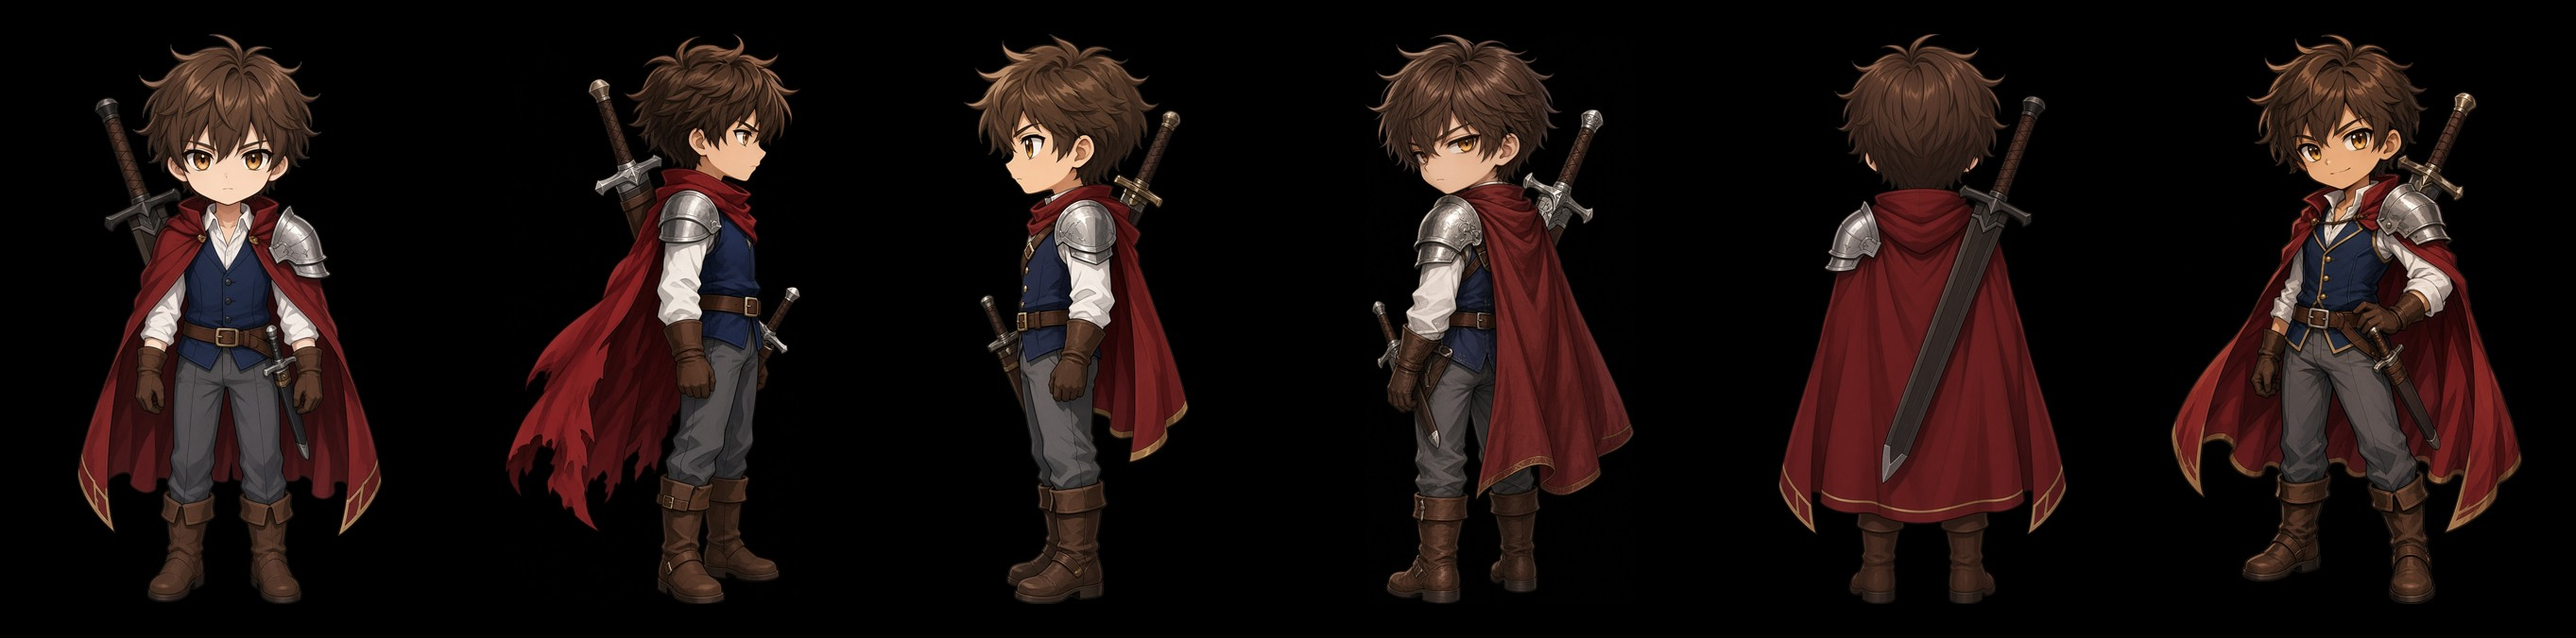
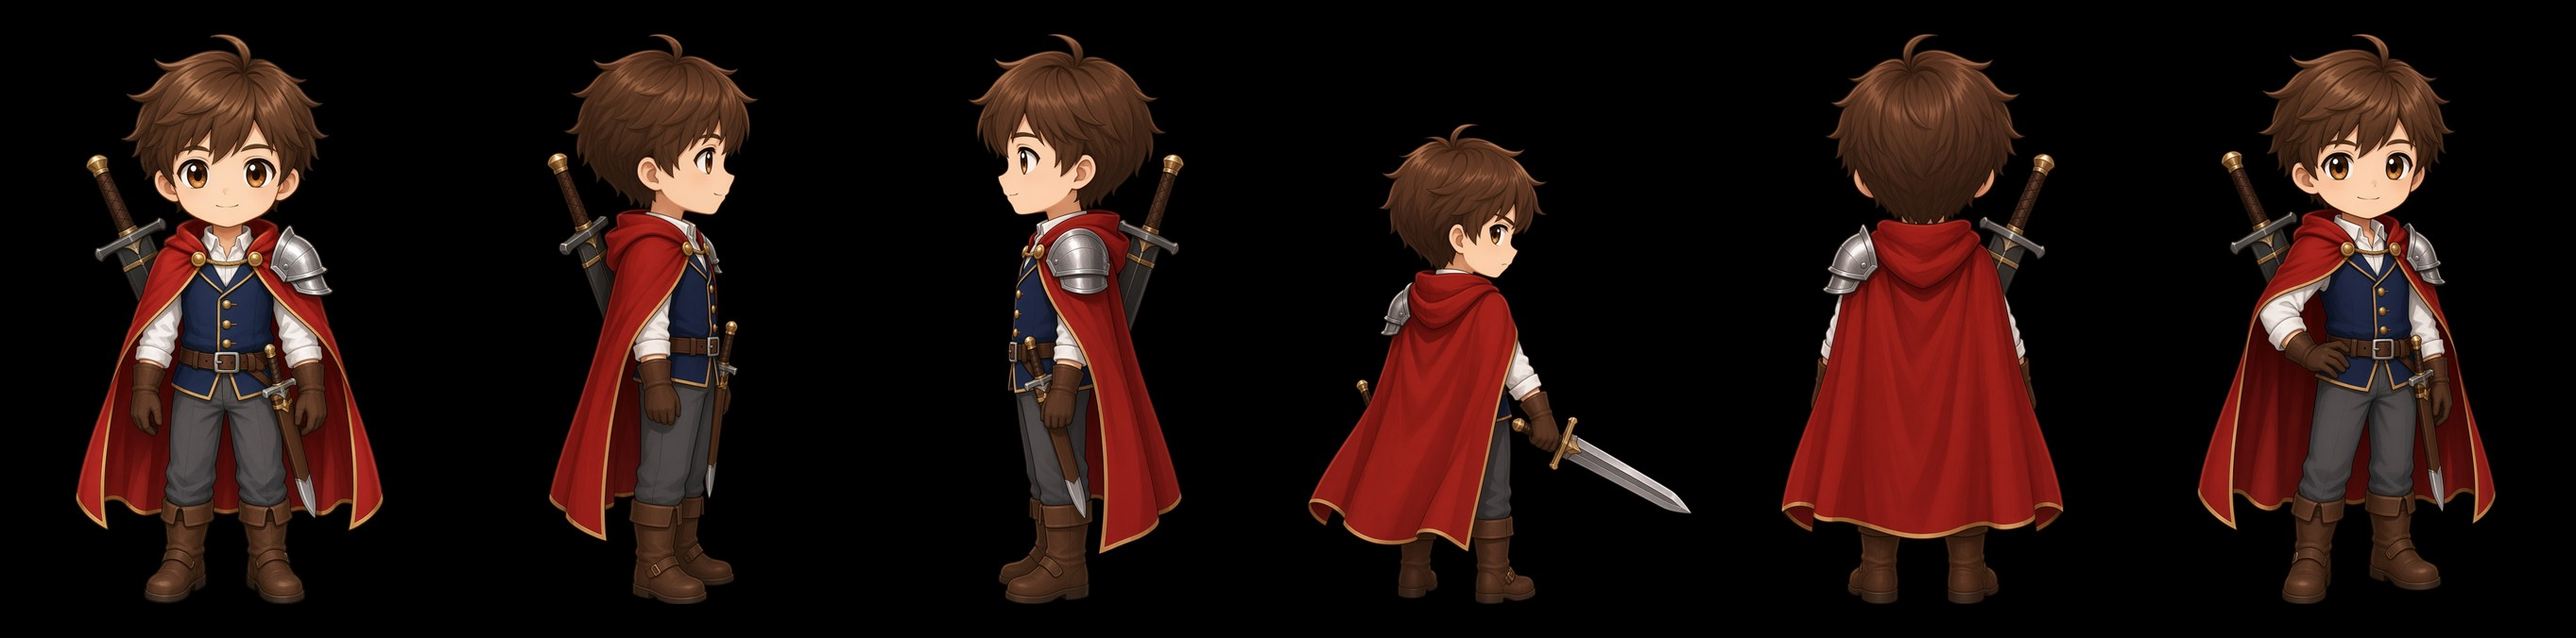
Match the warrior's face and cape, and draw his sword in battle.

diff --git a/index.html b/index.html
@@ -160,7 +160,6 @@
       height: 100%;
       object-fit: contain;
       object-position: right bottom;
-      transform: scaleX(-1);
       filter: drop-shadow(0 10px 8px rgba(0, 0, 0, 0.5));
     }
     .hero-vitals {
@@ -2862,11 +2861,11 @@
         <div class="cast-screen">
           <button type="button" class="cast-back" data-action="title">もどる</button>
           <div class="cast-row">
-            <button type="button" class="cast-mini" data-action="cast-stay" aria-label="${CHARACTER_NAME}"><span class="cast-front"><img class="cast-portrait" src="job-warrior.png?v=3" alt=""></span></button>
+            <button type="button" class="cast-mini" data-action="cast-stay" aria-label="${CHARACTER_NAME}"><span class="cast-front"><img class="cast-portrait" src="job-warrior.png?v=4" alt=""></span></button>
           </div>
           <div class="cast-body">
             <button type="button" class="cast-arrow" data-action="cast-stay" aria-label="前のキャラ">◀</button>
-            <div class="cast-front big"><img class="cast-portrait" src="job-warrior.png?v=3" alt="戦士"></div>
+            <div class="cast-front big"><img class="cast-portrait" src="job-warrior.png?v=4" alt="戦士"></div>
             <div class="cast-info">
               <p>初期ジョブ</p>
               <h1>${CHARACTER_NAME}</h1>
@@ -2910,7 +2909,7 @@
             <h2>設定資料</h2>
             <p class="album-meta">絵はここを正とする。ジョブが変わっても、性別は変えない。</p>
             <h3>戦士</h3>
-            <img class="sheet-art" src="warrior-f-sheet.jpg?v=4" alt="戦士。真正面、右向き、左向き、斜め後ろ、後ろ、手を腰。">
+            <img class="sheet-art" src="warrior-f-sheet.jpg?v=5" alt="戦士。真正面、右向き、左向き、斜め後ろ、後ろ、手を腰。">
             <p class="sheet-cap">左から、真正面、右向き、左向き、斜め後ろ、後ろ、決めポーズ。</p>
             <h3>魔法使い・女・白</h3>
             <img class="sheet-art" src="mage-f-sheet.jpg?v=2" alt="女の魔法使い。真正面、右向き、左向き、斜め後ろ、後ろ、決めポーズ。">
@@ -2922,7 +2921,7 @@
               <p><b>体</b>戦士は、4頭身くらい。魔法使いは、いまの2頭身のまま。</p>
               <p><b>戦士</b>赤いマント、白いシャツ、紺の胴着、ベルトは一本、左肩の銀の肩当て。大きな剣は背中、小さな剣は腰。盾とリュックは無い。</p>
               <p><b>魔法使い</b>女は白、男は黒。杖は同じで、先が一つの渦巻き。戦士の服は使わない。</p>
-              <p><b>戦闘</b>自分は、この戦士の斜め後ろ。赤いマント。敵はその奥。</p>
+              <p><b>戦闘</b>自分は、この戦士の斜め後ろ。剣を抜いて、きりっとした顔で右を向く。敵はその奥。</p>
             </div>
             <h3>タイトル</h3>
             <img class="sheet-art" src="title-party.jpg" alt="タイトル。四人がわいわいしている。">
@@ -3097,7 +3096,7 @@
           const img = new Image();
           img.onload = () => { heroImage = img; resolve(img); };
           img.onerror = () => reject(new Error("hero"));
-          img.src = "hero-shoulder.png?v=10";
+          img.src = "hero-shoulder.png?v=11";
         });
       }
       return heroImageTask;
@@ -3116,7 +3115,7 @@
     }
 
     function heroShoulder() {
-      return `<div class="hero-shoulder"><img class="hero-fig" src="hero-shoulder.png?v=10" alt="戦士"></div>`;
+      return `<div class="hero-shoulder"><img class="hero-fig" src="hero-shoulder.png?v=11" alt="戦士"></div>`;
     }
 
     function startHeroIdle() {
